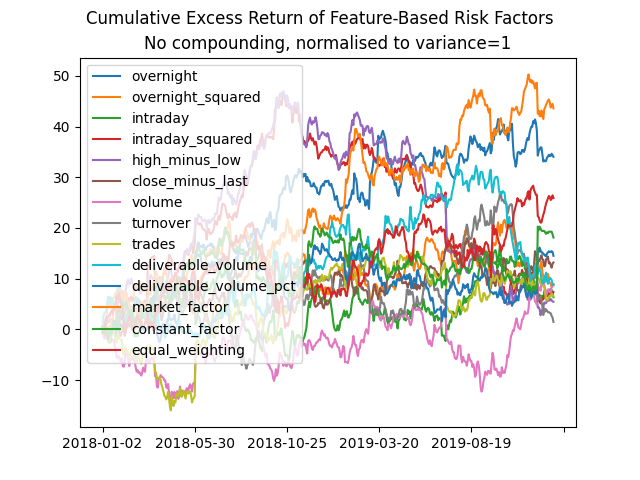
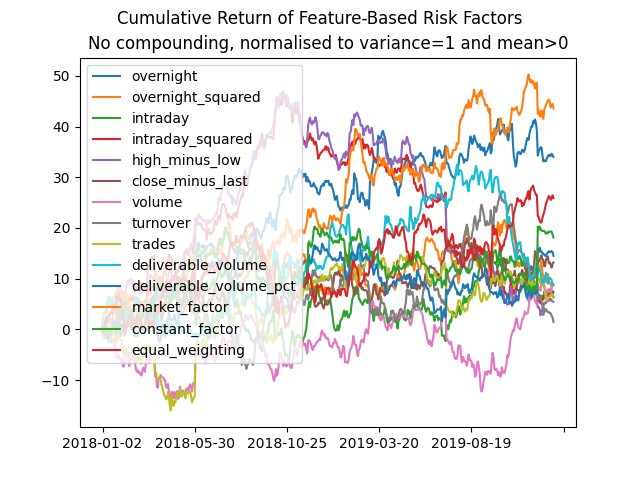
Clarified sign of returns

Changed region(s): [[0.125, 0.0, 0.9062, 0.125]]

diff --git a/src/demo.py b/src/demo.py
@@ -61,8 +61,8 @@ def demo_eigenportfolios():
     premia_subset = premia.T[[*premia.T.columns[:3],*premia.T.columns[-5:]]]
 
     (np.sign(premia_subset.mean())*premia_subset/premia_subset.std()).cumsum().plot()
-    plt.suptitle('Cumulative Excess Return of Eigenportfolios')
-    plt.title('No compounding, normalised to variance=1')
+    plt.suptitle('Cumulative Return of Eigenportfolios')
+    plt.title('No compounding, normalised to variance=1 and mean>0')
     plt.savefig('../output/eigenportfolios.png')
 
 def demo_features():
@@ -100,8 +100,8 @@ def demo_features():
     betas, premia = fama_macbeth(returns, risk_factors)
 
     (np.sign(premia.T.mean())*premia.T/premia.T.std()).cumsum().plot()
-    plt.suptitle('Cumulative Excess Return of Feature-Based Risk Factors')
-    plt.title('No compounding, normalised to variance=1')
+    plt.suptitle('Cumulative Return of Feature-Based Risk Factors')
+    plt.title('No compounding, normalised to variance=1 and mean>0')
     plt.savefig('../output/features.png')
 
 if __name__ == '__main__':
